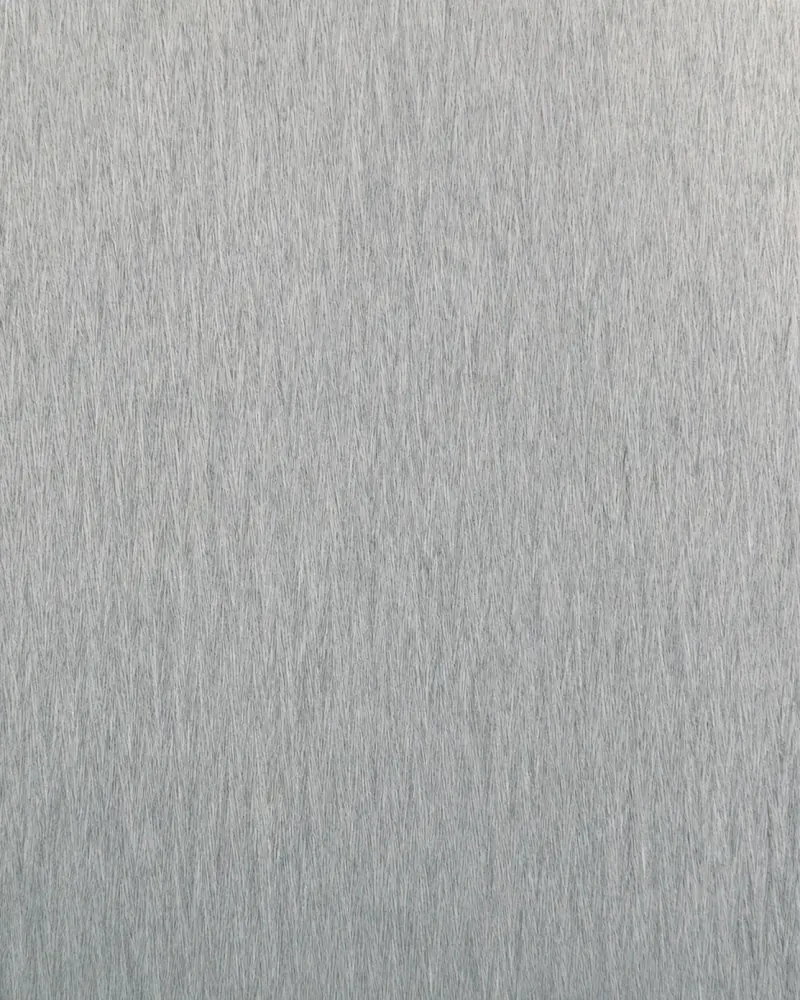
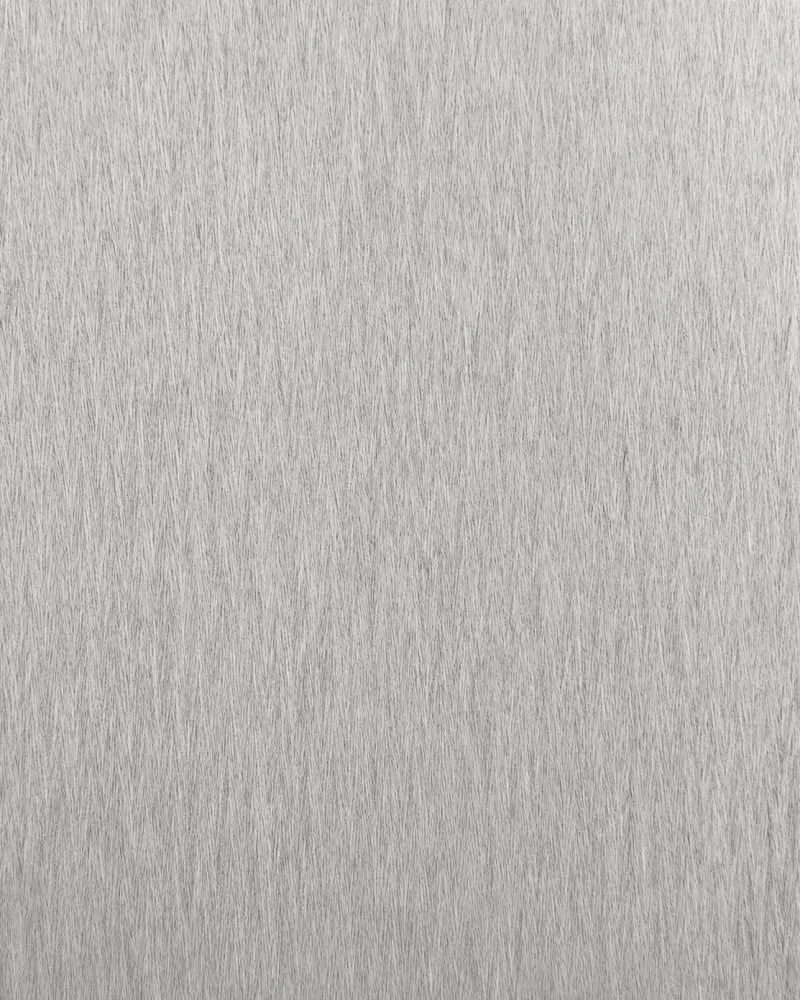
Lighten the Berlin Arrow Slate swatch
The same shot as 35f3c5b with a lighter, slightly warmer edit, cropped
to 4:5. The address moves to ?v=4 so browsers drop the darker picture.

diff --git a/src/data.js b/src/data.js
@@ -842,7 +842,7 @@ export const PRODUCTS = [
     tones: ['light', 'cool'],
     species: 'Engineered Wood',
     idSpecies: 'Kayu Rekayasa',
-    image: '/assets/image/BERLIN ARROW SLATE.webp?v=3',
+    image: '/assets/image/BERLIN ARROW SLATE.webp?v=4',
     hiResImage: '/assets/hires/BERLIN ARROW SLATE.png',
     bestFor: 'Modern minimalist cabinetry, architectural panels, commercial interiors',
     idBestFor: 'kabinet minimalis modern, panel arsitektural, interior komersial',
